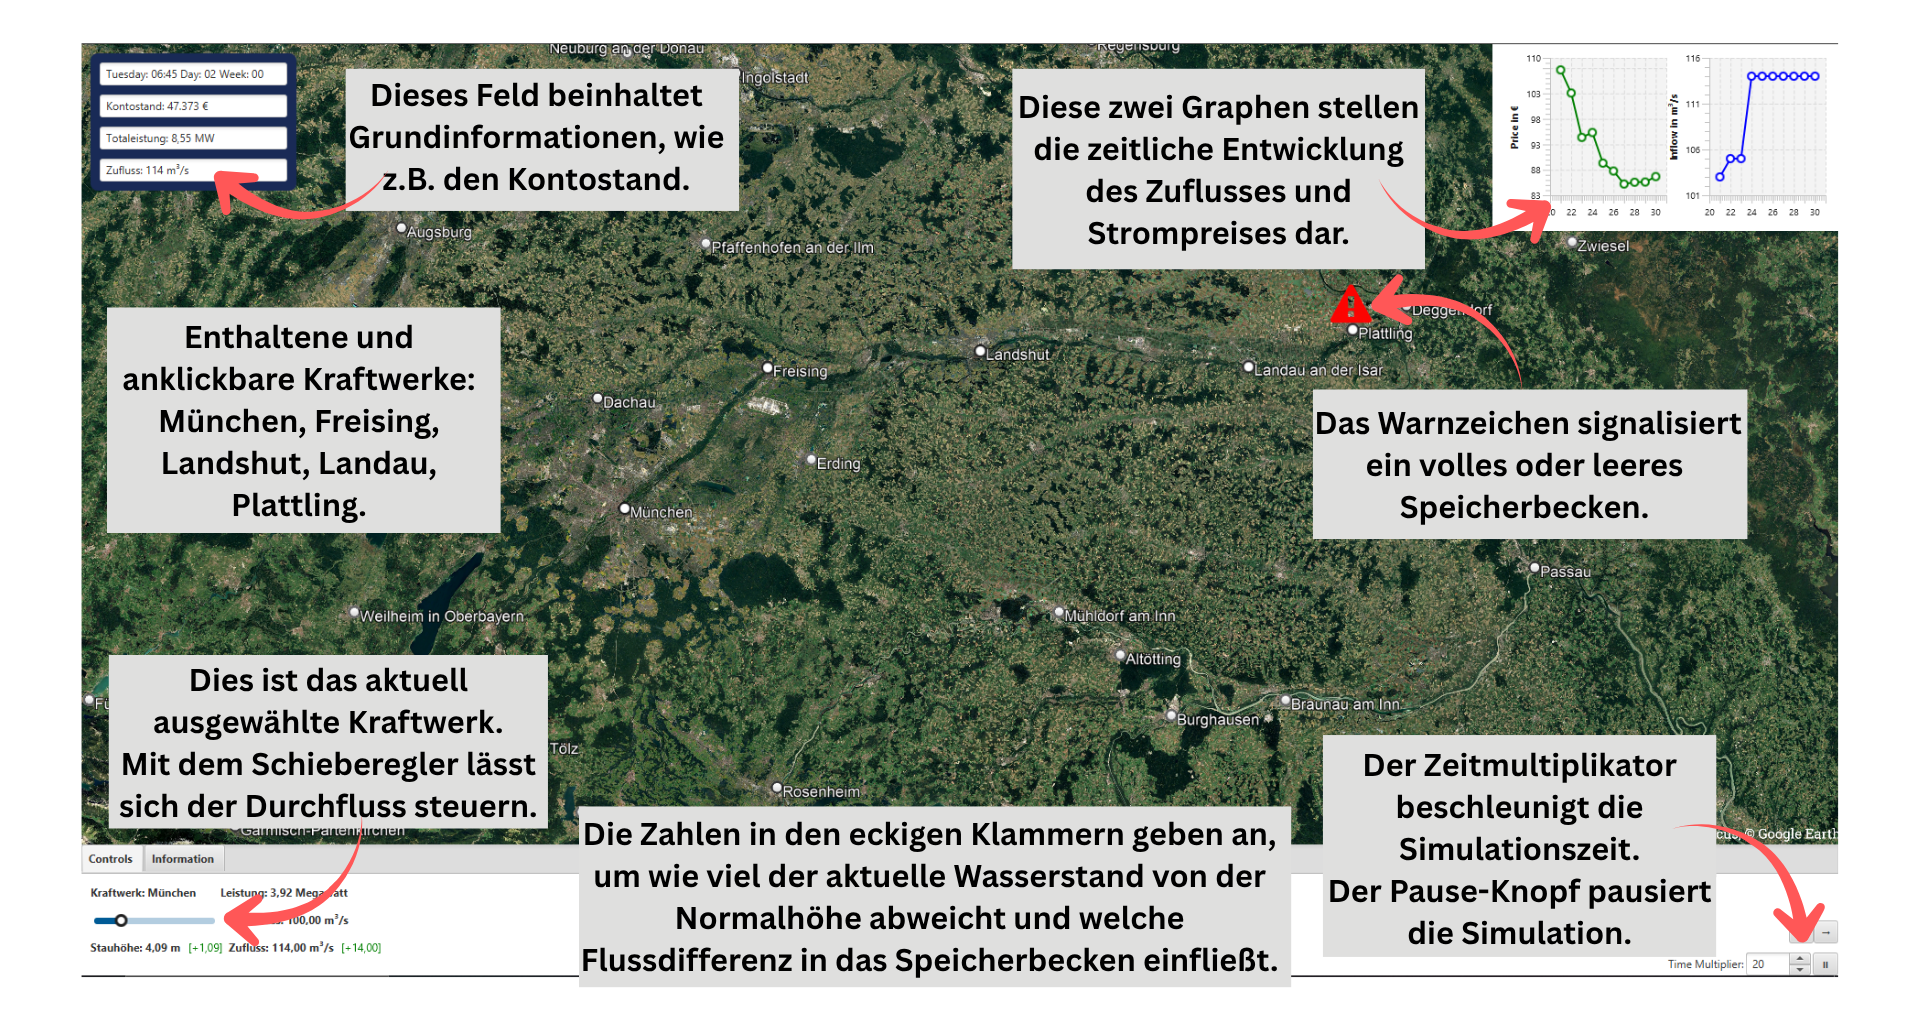
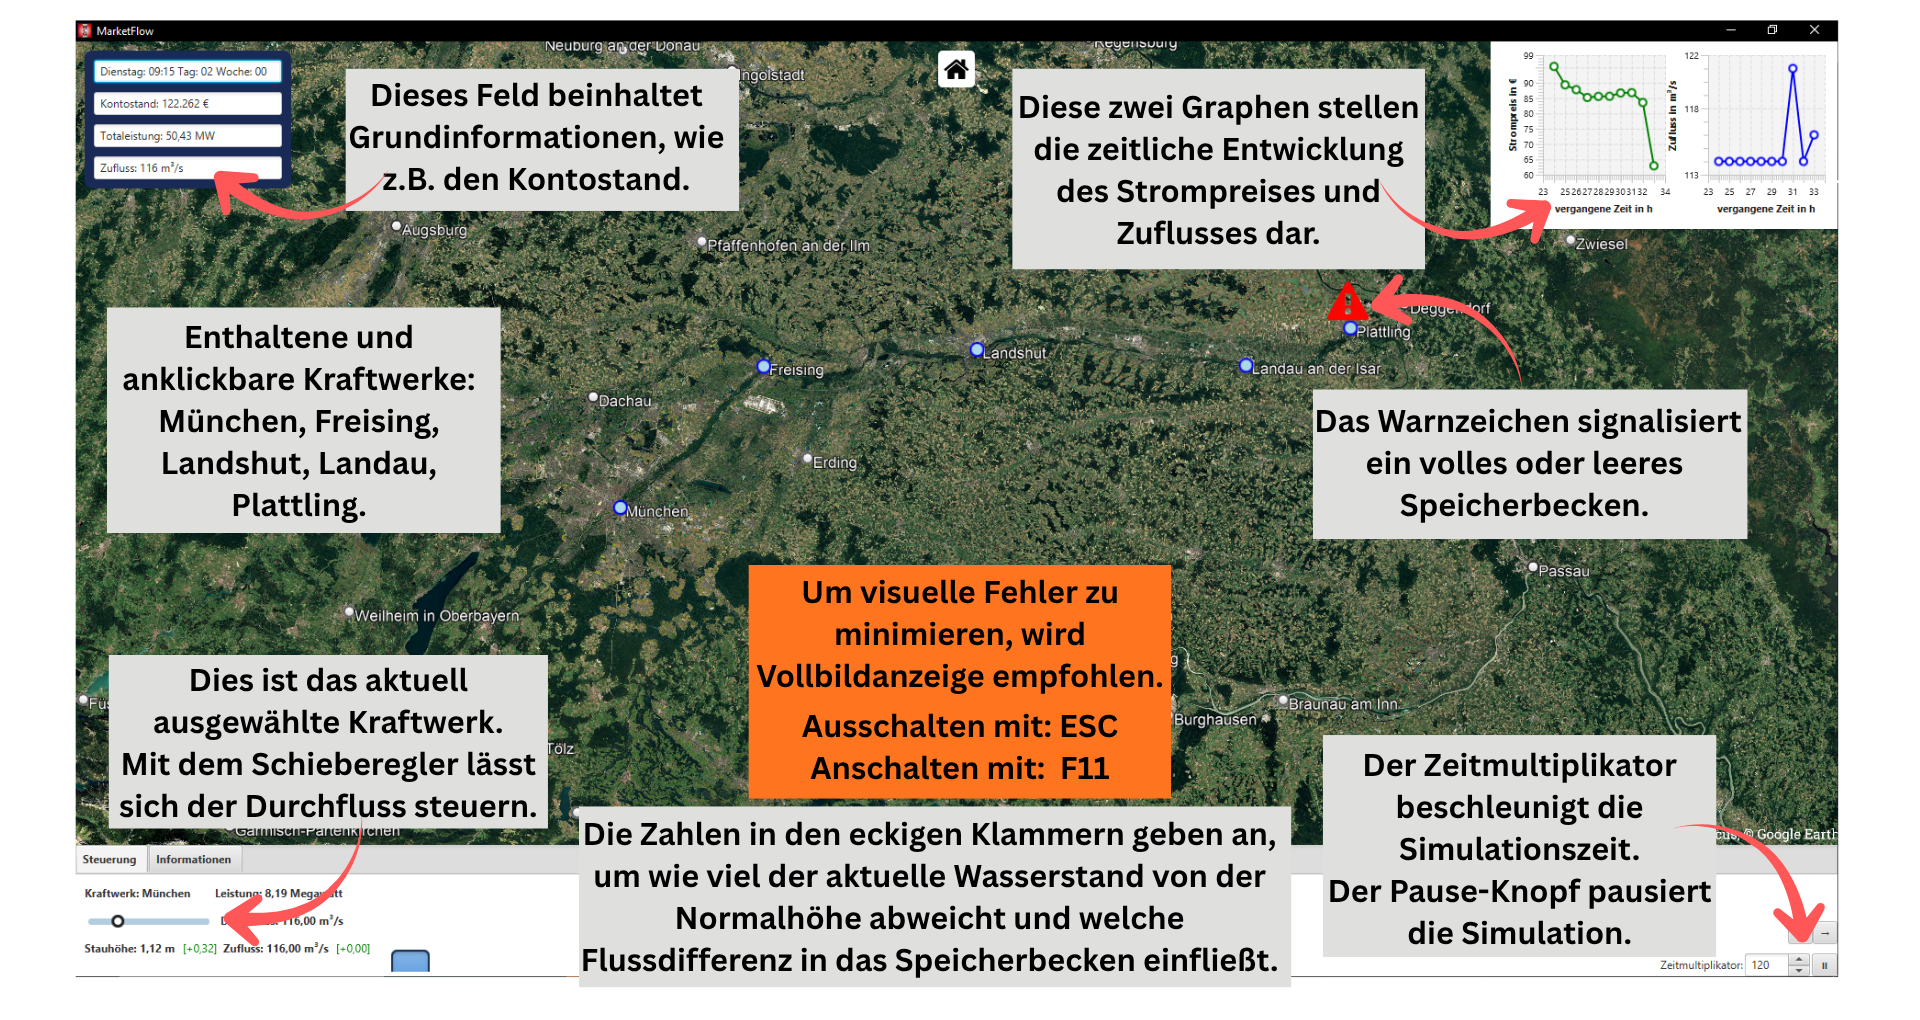
Enabled Fullscreen, fixed missing Translation, produced publish-worthy Production Version

Changed region(s): [[0.0312, 0.0, 0.9688, 0.9725], [0.8438, 0.9118, 0.9688, 0.9725]]

diff --git a/src/main/java/dev/luggers/UIHelper.java b/src/main/java/dev/luggers/UIHelper.java
@@ -143,16 +143,16 @@ public class UIHelper {
 		int days = totalHours / 24 % 7 + 1;
 		int weeks = totalHours / 24 / 7;
 
-		String weekdayString = "Monday";
+		String weekdayString = "Montag";
 		String quarterHourString = "00";
 		switch (days) {
-		case 1 -> weekdayString = "Monday";
-		case 2 -> weekdayString = "Tuesday";
-		case 3 -> weekdayString = "Wednesday";
-		case 4 -> weekdayString = "Thursday";
-		case 5 -> weekdayString = "Friday";
-		case 6 -> weekdayString = "Saturday";
-		case 7 -> weekdayString = "Sunday";
+		case 1 -> weekdayString = "Montag";
+		case 2 -> weekdayString = "Dienstag";
+		case 3 -> weekdayString = "Mittwoch";
+		case 4 -> weekdayString = "Donnerstag";
+		case 5 -> weekdayString = "Freitag";
+		case 6 -> weekdayString = "Samstag";
+		case 7 -> weekdayString = "Sonntag";
 		}
 		switch (quarterHour) {
 		case 1 -> quarterHourString = "00";
@@ -160,7 +160,7 @@ public class UIHelper {
 		case 3 -> quarterHourString = "30";
 		case 4 -> quarterHourString = "45";
 		}
-		timeLabel.setText(String.format("%s: %02d:%s Day: %02d Week: %02d", weekdayString, (hours % 24),
+		timeLabel.setText(String.format("%s: %02d:%s Tag: %02d Woche: %02d", weekdayString, (hours % 24),
 				quarterHourString, days, weeks));
 	}
 }

diff --git a/src/main/java/dev/luggers/Marketflow.java b/src/main/java/dev/luggers/Marketflow.java
@@ -45,6 +45,7 @@ public class Marketflow extends javafx.application.Application {
 
     private void loadGameScene(Stage primaryStage) {
         gameLoader = new FXMLLoader(getClass().getResource("/dev/luggers/main.fxml"));
+
         try {
             gameScene = new Scene(gameLoader.load());
         } catch (IOException e) {
@@ -66,7 +67,12 @@ public class Marketflow extends javafx.application.Application {
         } catch (IOException e) {
             throw new RuntimeException(e);
         }
-
+       tutorialScene.setOnKeyPressed(event -> {
+            if (KeyCode.F11 == event.getCode()) {
+                Stage stage = (Stage) tutorialScene.getWindow();
+                stage.setFullScreen(!stage.isFullScreen());  // Toggle fullscreen
+            }
+        });
         startGameButton = new Button("Simulation Starten");
         startGameButton.getStyleClass().add("start-button");
         startGameButton.setOnAction(event -> {

diff --git a/src/main/java/dev/luggers/Controller.java b/src/main/java/dev/luggers/Controller.java
@@ -182,8 +182,8 @@ public class Controller {
 			TabPane tabPane = new TabPane();
 			tabPane.setTabClosingPolicy(TabPane.TabClosingPolicy.UNAVAILABLE);
 
-			Tab controlTab = new Tab("Controls");
-			Tab infoTab = new Tab("Information");
+			Tab controlTab = new Tab("Steuerung");
+			Tab infoTab = new Tab("Informationen");
 
 			Slider slider = new Slider(plant.getMinWaterflow(), plant.getMaxWaterflow(), 0);
 			sliderConfig(slider);
